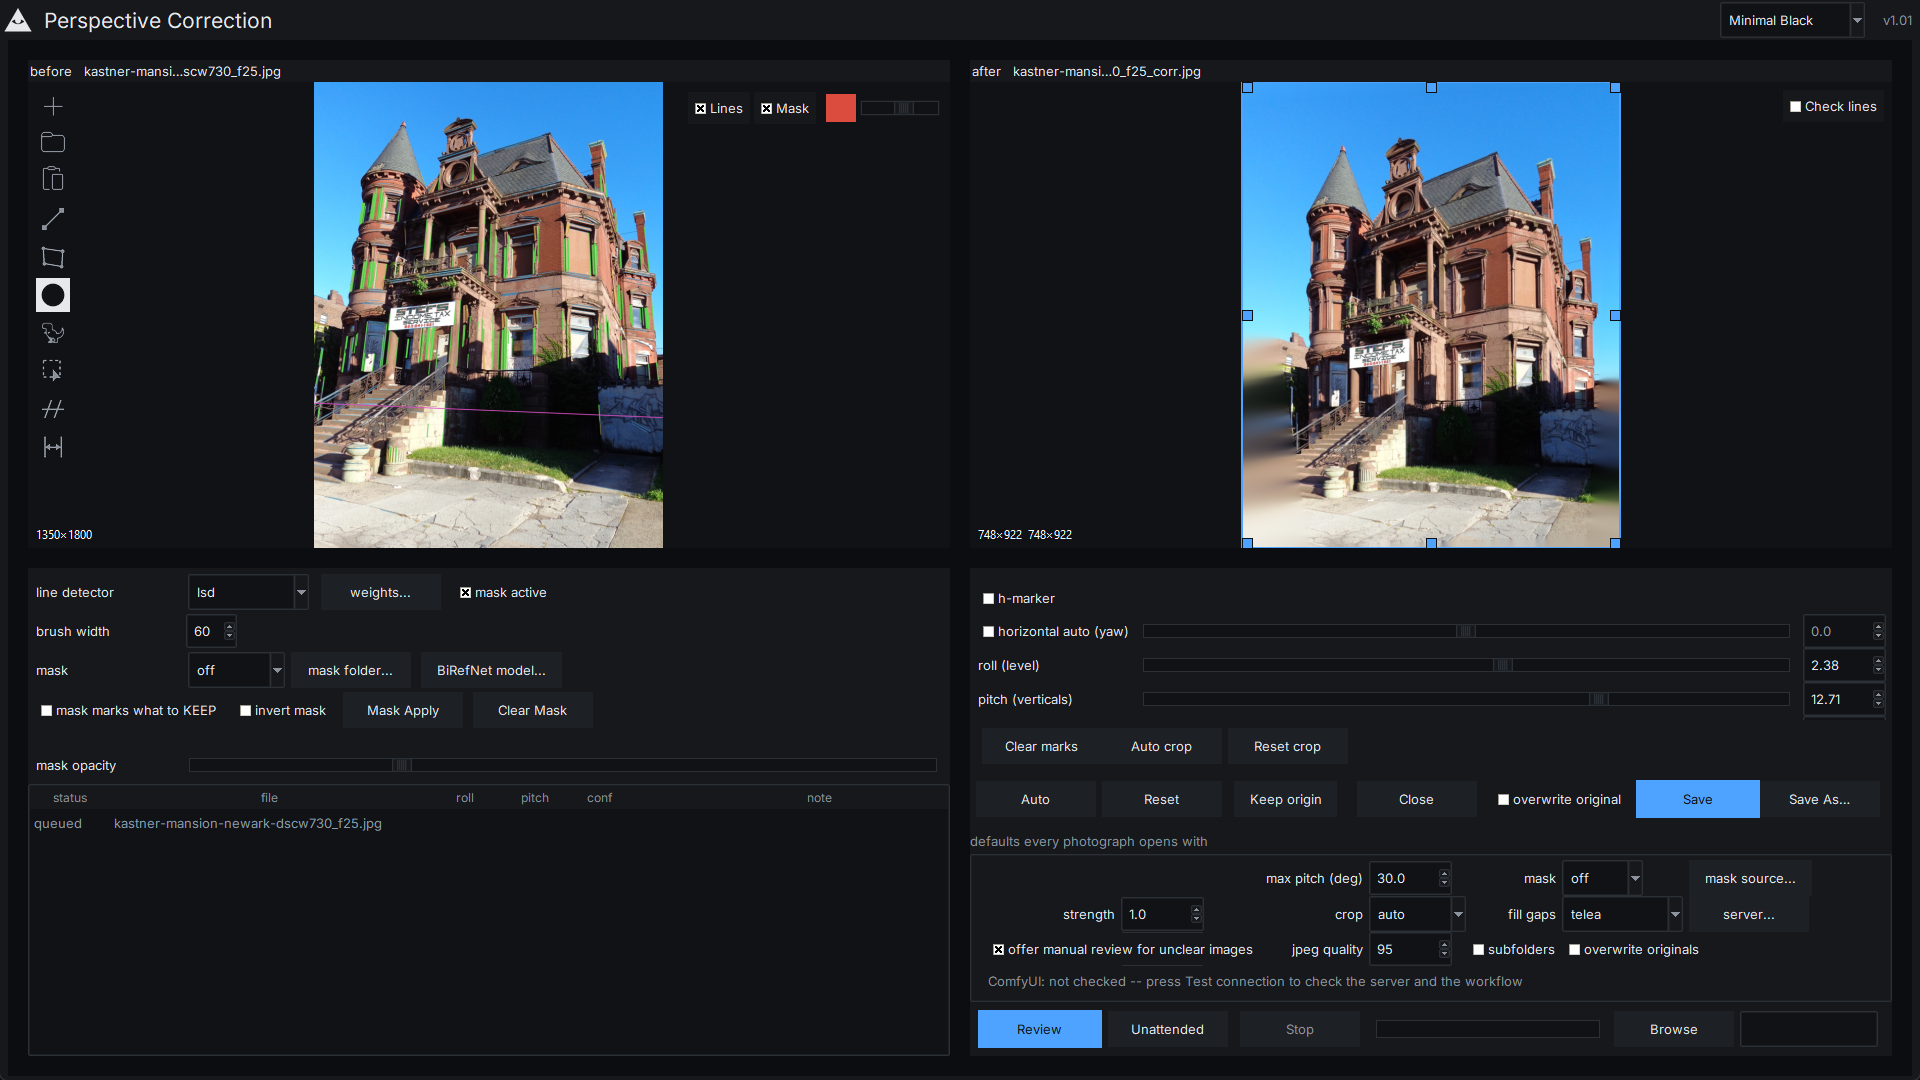
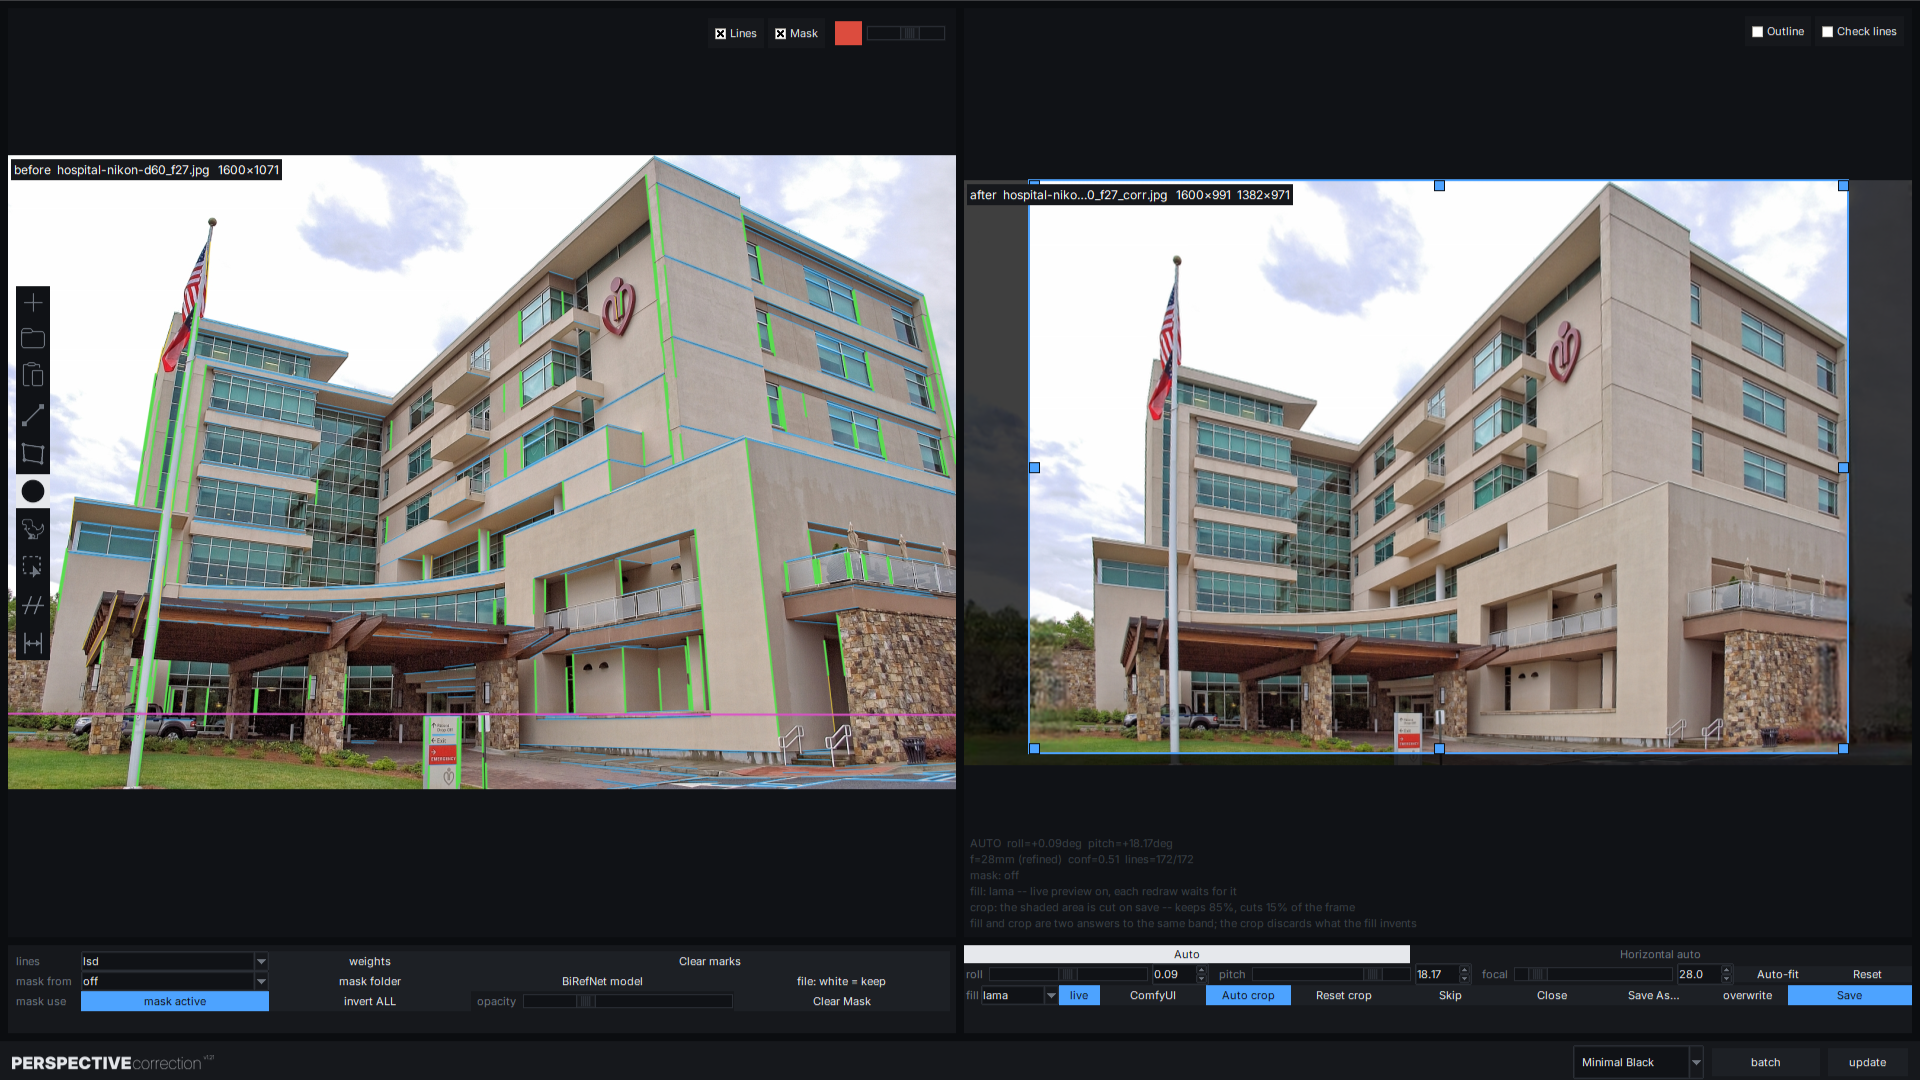
README screenshot on hospital; fill notice no longer sticks; auto crop +30% tall

diff --git a/tests/test_review.py b/tests/test_review.py
@@ -885,11 +885,12 @@ def test_the_auto_crop_contains_no_invented_pixel():
 # property-for-property, not just work in the one happy-path test above.
 # --------------------------------------------------------------------------
 
-def test_with_a_fill_on_the_auto_crop_grows_10_wide_20_tall_inside_the_outline():
+def test_with_a_fill_on_the_auto_crop_grows_10_wide_30_tall_inside_the_outline():
     """User, 2026-10-21: "set auto crop a little bigger, +10%", then "add
-    vertical 20 ... not more than image outline". With a fill on, the fill
+    vertical 20 ... not more than image outline", then "increase vertical 30".
+    With a fill on, the fill
     covers what the growth takes in, so the fill-free rectangle grows 10% in
-    width and 20% in height, centred, and never past the warped photograph's
+    width and 30% in height, centred, and never past the warped photograph's
     extent. Without a fill nothing grows (the previous test). A level camera's
     eave rule is kept out of it, so only the growth is measured."""
     from pc import warp as W
@@ -902,8 +903,8 @@ def test_with_a_fill_on_the_auto_crop_grows_10_wide_20_tall_inside_the_outline()
         assert s.auto_crop()
         return s
 
-    assert (W.AUTO_CROP_GROW_X, W.AUTO_CROP_GROW_Y) == (0.10, 0.20), (
-        "+10% wide, +20% tall are the user's numbers, not tuning knobs")
+    assert (W.AUTO_CROP_GROW_X, W.AUTO_CROP_GROW_Y) == (0.10, 0.30), (
+        "+10% wide, +30% tall are the user's numbers, not tuning knobs")
     for pitch in (4.0, 9.0, 20.0):
         s0, s1 = crop("none", pitch), crop("telea", pitch)
         roll, p_, f, _ = s1.current_angles()
@@ -912,7 +913,7 @@ def test_with_a_fill_on_the_auto_crop_grows_10_wide_20_tall_inside_the_outline()
         quad = W.warped_quad(H_total, s1.w, s1.h)
         a = np.array(s0.crop_rect) * [ow, oh, ow, oh]
         b = np.array(s1.crop_rect) * [ow, oh, ow, oh]
-        gx = 0.05 * (a[2] - a[0]); gy = 0.10 * (a[3] - a[1])
+        gx = 0.05 * (a[2] - a[0]); gy = 0.15 * (a[3] - a[1])
         want = [max(0, quad[:, 0].min(), a[0] - gx), max(0, quad[:, 1].min(), a[1] - gy),
                 min(ow, quad[:, 0].max(), a[2] + gx), min(oh, quad[:, 1].max(), a[3] + gy)]
         assert np.allclose(b, want, atol=1.5), f"pitch {pitch}: crop {b.round(1)} != {np.round(want, 1)}"

diff --git a/tests/test_gui.py b/tests/test_gui.py
@@ -1094,7 +1094,10 @@ def test_phosphor_lays_a_graded_ground_and_takes_it_away_again():
                 f"{name} ground is not the lowest item -- it would cover the picture")
 
         app._switch_theme("Dark Grey")
-        _settle(app)
+        # wait for the redraw, not a fixed count: with live lama the default a
+        # redraw takes about a second and a fixed pump raced it under load
+        _settle_until(app, lambda: not (review.c_before.find_withtag("ground")
+                                        or review.c_after.find_withtag("ground")), n=400)
         assert INK.get("grad") is None, (
             "the Phosphor gradient outlived Phosphor: INK still carries it")
         for name in ("c_before", "c_after"):
@@ -1915,5 +1918,23 @@ def test_the_outline_switch_draws_the_source_border_where_the_warp_put_it():
             assert min(ys) >= oy - 1 and max(ys) <= oy + r._ph_a.height() + 1, ys
         r.v_after_outline.set(False); r._toggle_outline(); r._redraw(); _settle(app, 10)
         assert not r.c_after.find_withtag("outline"), "outline survived switching it off"
+    finally:
+        app.destroy()
+
+
+def test_the_fill_progress_notice_goes_away_once_the_preview_is_drawn():
+    """With live lama the default (2026-10-21) the preview reports its fill
+    steps, which raises the "filled -- 100%" notice -- and nothing took it down
+    again, so it sat over the cross for good. Reported through the session's
+    real step callback, as the fill does."""
+    app = _app()
+    try:
+        _loaded(app, 1920, 1080)
+        r = app.review
+        r._fill_step("filled", 1.0)
+        _settle(app, 5)
+        assert r._wait.winfo_ismapped(), "premise: the step callback shows the notice"
+        r._redraw(); _settle(app, 10)
+        assert not r._wait.winfo_ismapped(), "the fill notice outlived the redraw"
     finally:
         app.destroy()

diff --git a/src/pc/warp.py b/src/pc/warp.py
@@ -111,11 +111,12 @@ line, and the topmost one of those would pull the crop up into the building."""
 EAVE_HEADROOM = 0.10
 # Auto crop with a fill on is the fill-free rectangle grown by these shares of
 # its width and height, half on each side (user, 2026-10-21: "a little bigger,
-# +10%", then "add vertical 20 ... motifs need more flesh"), and never past the
+# +10%", "add vertical 20", then "increase vertical 30" -- "I always have to
+# drag it further"), and never past the
 # image outline -- the warped photograph's own extent. The fill covers what the
 # growth takes in; with no fill nothing grows.
 AUTO_CROP_GROW_X = 0.10
-AUTO_CROP_GROW_Y = 0.20
+AUTO_CROP_GROW_Y = 0.30
 """How much of the crop height the auto-crop keeps above the eave when a fill is
 active.  The fill invents the sky above the roof, so a crop that starts at the
 roofline leaves none; this much headroom reads as sky, not as a cut-off roof."""

diff --git a/src/pc/gui.py b/src/pc/gui.py
@@ -4113,6 +4113,12 @@ class ReviewPanel(tk.Frame):
             # discards, so the picture keeps one size and one scale for the whole
             # session instead of leaping every time a corner moves.
             after = self.session.render_after(max_edge=max(lock_a), apply_crop=False)
+            # A live fill reports its steps through `_fill_step`, which raises
+            # the "filled -- 100%" notice; the render is synchronous, so once it
+            # returns the fill is done and the notice must go (it stayed up for
+            # good once live lama became the default).
+            if not getattr(self, "_busy", False):
+                self._wait_hide()
             self._after_base = after      # un-veiled, preview-sized; _show_after bakes it
             self._after_box = lock_a
             self._after_live = box_a      # centred in this, fitted to lock_a

diff --git a/CLAUDE.md b/CLAUDE.md
@@ -677,9 +677,10 @@ features ahead of everything else.*
 - **[UI, user-directed] "Light" is gone; "Dark Grey" replaces it** ("light looks shitty"). The theme is not persisted, so no saved preference needed migrating.
 - **[UI, user-directed] Manual mode removed.** It only showed four buttons that pressed the tool palette's own keys; a drawn line overrules the detector in every mode. The switch is Auto | Horizontal auto.
 - **[UI, user-directed] Live lama preview is the default** (`live_fill_preview = True`). Cost: about 1.2 s per redraw at preview size (measured 09-26 on Platte_1); untick "live" for the 38 ms telea stand-in while dragging.
-- **[UI, user-directed] Auto crop grows with a fill on: +10% wide, +20% tall, centred, never past the image outline or the canvas** (`warp.AUTO_CROP_GROW_X/Y`; "motifs need more flesh"). The fill covers the growth; with fill "none" nothing grows, and the no-invented-pixel test runs with fill "none".
-  - Pinned by `test_with_a_fill_on_the_auto_crop_grows_10_wide_20_tall_inside_the_outline`, checked against a computed expectation at pitch 4/9/20. It goes red without the growth.
+- **[UI, user-directed] Auto crop grows with a fill on: +10% wide, +30% tall (20 first, then 30: "I always have to drag it further"), centred, never past the image outline or the canvas** (`warp.AUTO_CROP_GROW_X/Y`; "motifs need more flesh"). The fill covers the growth; with fill "none" nothing grows, and the no-invented-pixel test runs with fill "none".
+  - Pinned by `test_with_a_fill_on_the_auto_crop_grows_10_wide_30_tall_inside_the_outline`, checked against a computed expectation at pitch 4/9/20. It goes red without the growth.
   - The outline clamp did NOT go red on sabotage: in every tested case the canvas ends where the outline does, so the two limits coincide. It stays as the stated rule.
+- **[bug] The "filled -- 100%" notice stayed up for good** once live lama became the default: the preview's fill reports steps through `_fill_step`, and nothing hid the notice after the (synchronous) render. `_redraw` now hides it unless a save is busy. Pinned by `test_the_fill_progress_notice_goes_away_once_the_preview_is_drawn`, red on the old code. The live default also makes a redraw ~1 s slower, which raced `test_phosphor_...`'s fixed pump count under load; it now waits for the condition.
 - **[UI, user-directed] "Outline" switch beside "Check lines"**: the photograph's own border mapped through the correction onto the after picture (`OVERLAY["outline"]`, yellow). Each edge piece is clipped to the picture; nothing is drawn outside it or along the picture's own edge. Toggling posts a notice. Pinned by `test_the_outline_switch_draws_the_source_border_where_the_warp_put_it`.
 - **[UI, user-directed] Guides are pulled from a band around the picture**, `GUIDE_BAND_PX = 8` outside and 8 inside every edge, so 16 px all round (user: finding them was "a fuck up").
   - A press in the band creates the guide and is already dragging it. A press that travels less than `GUIDE_CLICK_PX` is a click and leaves nothing.

diff --git a/README.md b/README.md
@@ -23,7 +23,7 @@ basis, each against its own measurement.
 
 ## The window
 
-![The review window at 1920×1080: the two preview fields on top take the larger share, loader and controls below, around a black cross. Top left the original with detected lines drawn on it and the tool palette down its edge; top right the corrected frame with crop handles; bottom left the detector and mask controls; bottom right the angle sliders and the Review/Unattended bar.](docs/ui.png)
+![The review window at 1920×1080 on hospital-nikon-d60_f27.jpg: top left the original with the detected verticals (green) and horizontals (blue) and the tool palette down its edge; top right the corrected frame in Auto mode, verticals straight, with the auto crop and its handles; below, the detector and mask controls and the Auto / Horizontal auto strip with the angle sliders, fill, crop and Save.](docs/ui.png)
 
 The window *is* a cross of four fields, the two previews on top taking the
 larger share. **Top left** is the original, with
@@ -31,10 +31,13 @@ what the estimator saw drawn over it and the tools that change the input running
 down its edge. **Top right** is the result, at the same scale as the original so
 the two can be compared honestly, with a crop rectangle whose discarded area is
 shaded rather than cut — the picture never moves while you drag. Grey guides are
-pulled out of the black cross with the mouse and laid against an edge; a true
-vertical should run parallel to one. **Bottom left** finds things: line detector,
-brush width, mask source. **Bottom right** edits them: roll, pitch, yaw, crop,
-and the buttons the review ends on.
+pulled from a 16 px band around the picture's edge and laid against an edge; a
+true vertical should run parallel to one. **Outline** draws where the photo's own
+border landed, **Check lines** re-detects lines on the result. **Bottom left**
+finds things: line detector and mask source. **Bottom right** edits them: the
+Auto / Horizontal auto switch with its angles (roll, pitch, focal; yaw and detail
+in Horizontal auto), fill, crop, and the buttons the review ends on. Lines you
+draw by hand always win over the detector.
 
 Every tool sits on the picture it acts on, and the palette is one set of marks
 drawn at one pen weight:
